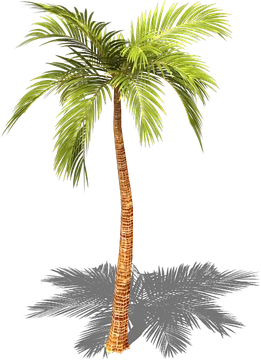
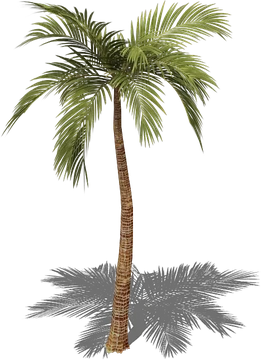
v0.50.2 바위 · 돌기둥 드리운 그림자, 야자수 어둡게, 아바타 캐릭터 타원 그림자 제거(그림에 그림자 있음)
Claude-Session: https://claude.ai/code/session_017YWnuLwW81GmbKmF6yVFa3

Changed region(s): [[0.0307, 0.0, 0.8889, 0.9778]]

diff --git a/src/engine2d/stage.js b/src/engine2d/stage.js
@@ -480,7 +480,26 @@ function drawTile(stage, ctx, set, id, sx, sy, s) {
   if (!t) return;
   const src = image(def.imgs[t[0]]);
   if (!src.ok) return;
+  if (set === 'drocks' || CAST_SHADOW.has(set + '|' + id)) castShadow(ctx, set, id, src.im, t, sx, sy, s * (t[7] || 1));
   drawRect(ctx, src.im, t._r || (t._r = t.slice(1)), sx, sy, s * (t[7] || 1)); // t[7]: 그림 배율 (드라이브 나무) · v0.49.56 잘라 둔 칸을 다시 쓴다
+}
+// v0.50.2 그림에 그림자가 없는 바위 · 돌기둥: 검은 실루엣을 땅에 눕혀 나무 그림자와 같은 쪽(오른쪽 아래)으로 드리운다
+const CAST_SHADOW = new Set(['desert|120', 'desert|121', 'desert|122', 'desert|123', 'desert|124', 'desert|125', 'desert|126', 'desert|127']);
+const shadowCache = new Map();
+function castShadow(ctx, set, id, im, t, sx, sy, s) {
+  const key = set + '|' + id;
+  let c = shadowCache.get(key);
+  if (!c) {
+    c = document.createElement('canvas'); c.width = t[3]; c.height = t[4];
+    const g = c.getContext('2d'); g.drawImage(im, t[1], t[2], t[3], t[4], 0, 0, t[3], t[4]);
+    g.globalCompositeOperation = 'source-in'; g.fillStyle = '#000'; g.fillRect(0, 0, t[3], t[4]);
+    shadowCache.set(key, c);
+  }
+  // 그림 안 점 (x, y; 기준점 아래 0, 위로 음수) → 땅: 오른쪽으로 0.75, 아래로 0.2만큼 눕는다
+  ctx.save(); ctx.globalAlpha = 0.32;
+  ctx.translate(sx, sy); ctx.transform(s, 0, -0.75 * s, -0.2 * s, 0, 0); // 기존 변환(화면 배율) 위에 더한다
+  ctx.drawImage(c, -t[5], -t[6]);
+  ctx.restore();
 }
 
 // 물 타일: Flare 물은 거의 검어서 푸르게 물들인 사본을 한 번 만들어 쓴다

diff --git a/src/data/patchnotes.js b/src/data/patchnotes.js
@@ -1,6 +1,15 @@
 // 패치 노트 (게임 안 [메뉴 → 패치 노트]에서 본다). 새 버전이 나오면 맨 위에 더한다.
-export const GAME_VERSION = '0.50.1';
+export const GAME_VERSION = '0.50.2';
 export const PATCH_NOTES = [
+  {
+    ver: '0.50.2', date: '2026-11-24',
+    head: '배경 그림을 다듬었습니다.',
+    items: [
+      '1. 그림자가 없던 바위 · 돌기둥에 그림자가 생겼습니다.',
+      '2. 야자수가 너무 밝게 보이던 것을 주변과 맞췄습니다.',
+      '3. 캐릭터 발밑에 그림자와 동그라미가 겹쳐 보이던 것을 고쳤습니다.',
+    ],
+  },
   {
     ver: '0.50.1', date: '2026-11-24',
     head: '스킬 연출을 단계에 맞게 다듬었습니다.',

diff --git a/src/engine2d/actor.js b/src/engine2d/actor.js
@@ -129,7 +129,7 @@ export class Actor {
     if (alpha <= 0.01) return;
     // 그림자: 미리 만든 타원 그림 (경로 채우기는 몬스터가 많으면 무거웠다)
     ctx.globalAlpha = 0.35 * alpha;
-    const sw = this.shadowW ??= shadowWidth(this.def);
+    const sw = this.shadowW ??= (this.layers ? 0 : shadowWidth(this.def)); // v0.50.2 사람(아바타) 그림에는 그림자가 그려져 있어 타원을 겹치지 않는다
     if (sw) ctx.drawImage(shadowImg(), p.x - sw / 2 * s, p.y - sw * 0.21 * s, sw * s, sw * 0.42 * s);
 
     ctx.globalAlpha = alpha;
